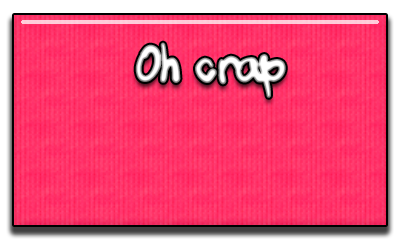
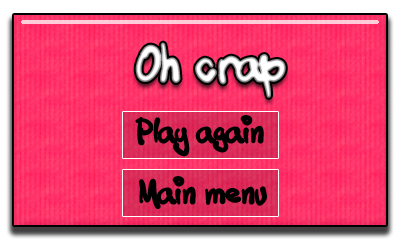
Added two buttons.

Changed region(s): [[0.3, 0.4375, 0.72, 0.6708], [0.3, 0.7, 0.72, 0.9042]]

diff --git a/core/src/fi/tamk/tiko/orion/sleeprunner/stages/PauseStage.java b/core/src/fi/tamk/tiko/orion/sleeprunner/stages/PauseStage.java
@@ -1,8 +1,14 @@
 package fi.tamk.tiko.orion.sleeprunner.stages;
 
+import com.badlogic.gdx.Gdx;
+import com.badlogic.gdx.graphics.Color;
 import com.badlogic.gdx.graphics.OrthographicCamera;
 import com.badlogic.gdx.graphics.g2d.Batch;
+import com.badlogic.gdx.scenes.scene2d.Actor;
+import com.badlogic.gdx.scenes.scene2d.InputEvent;
+import com.badlogic.gdx.scenes.scene2d.InputListener;
 import com.badlogic.gdx.scenes.scene2d.Stage;
+import com.badlogic.gdx.scenes.scene2d.Touchable;
 import com.badlogic.gdx.scenes.scene2d.actions.MoveToAction;
 import com.badlogic.gdx.utils.Scaling;
 import com.badlogic.gdx.utils.viewport.ScalingViewport;
@@ -19,27 +25,92 @@ public class PauseStage extends Stage {
 
     private SleepRunner game;
     private OrthographicCamera camera;
+
     private PauseMenu pauseMenu;
+
     private MoveToAction moveToAction;
+
+    private Actor newGameButton;
+    private Actor mainMenuButton;
+
+    private Batch batch;
+
+    private boolean isNewGameButtonTouched = false;
+    private boolean isMainMenuButtonTouched = false;
 
     public PauseStage(SleepRunner g, OrthographicCamera worldCamera,Batch batch){
         super(new ScalingViewport(Scaling.stretch, Constants.APP_WIDTH, Constants.APP_HEIGHT, worldCamera), batch);
         game = g;
+        this.batch = batch;
+
 
         setupMenu();
+
         camera = worldCamera;
     }
 
     private void setupMenu(){
 
         pauseMenu = new PauseMenu(Constants.APP_WIDTH / 4, Constants.APP_HEIGHT*2);
+        setupAnimation();
+        pauseMenu.addAction(moveToAction);
+        setupButtons();
+        addActor(pauseMenu);
+        addActor(newGameButton);
+        addActor(mainMenuButton);
+
+        mainMenuButton.debug();
+        newGameButton.debug();
+    }
+
+    private void setupButtons(){
+
+        newGameButton = new Actor();
+        newGameButton.setBounds(Constants.APP_WIDTH / 2.5f,
+                Constants.APP_HEIGHT / 2.4f,
+                Constants.APP_WIDTH / 5f,
+                Constants.APP_HEIGHT / 9.6f);
+        newGameButton.setTouchable(Touchable.enabled);
+        newGameButton.addListener(new InputListener() {
+            @Override
+            public boolean touchDown(InputEvent event, float x, float y,
+                                     int pointer, int button) {
+                isNewGameButtonTouched = true;
+                return true;
+            }
+        });
+
+
+        mainMenuButton = new Actor();
+        mainMenuButton.setBounds(Constants.APP_WIDTH / 2.5f,
+                Constants.APP_HEIGHT / 3.42f,
+                Constants.APP_WIDTH / 5f,
+                Constants.APP_HEIGHT / 9.6f);
+        mainMenuButton.setTouchable(Touchable.enabled);
+        mainMenuButton.addListener(new InputListener() {
+            @Override
+            public boolean touchDown(InputEvent event, float x, float y,
+                                     int pointer, int button) {
+                isMainMenuButtonTouched = true;
+                return true;
+            }
+        });
+
+    }
+
+    private void setupAnimation(){
 
         moveToAction = new MoveToAction();
-        moveToAction.setPosition(Constants.APP_WIDTH / 4, Constants.APP_HEIGHT/4);
+        moveToAction.setPosition(Constants.APP_WIDTH / 4, Constants.APP_HEIGHT / 4);
         moveToAction.setDuration(0.35f);
-        pauseMenu.addAction(moveToAction);
+    }
 
-        addActor(pauseMenu);
+    public boolean isNewGameButtonTouched(){
+        return isNewGameButtonTouched;
+    }
+
+    public boolean isMainMenuButtonTouched(){
+        return isMainMenuButtonTouched;
     }
 
     @Override

diff --git a/core/src/fi/tamk/tiko/orion/sleeprunner/graphics/PauseMenu.java b/core/src/fi/tamk/tiko/orion/sleeprunner/graphics/PauseMenu.java
@@ -22,9 +22,6 @@ public class PauseMenu extends Actor {
 
     @Override
     public void draw(Batch batch, float parentAlpha) {
-        //batch.draw(texture,this.getX(),this.getY(),this.getOriginX(),this.getOriginY(),this.getWidth(),
-        //        this.getHeight(),this.getScaleX(), this.getScaleY(),this.getRotation(),0,0,
-        //        texture.getWidth(),texture.getHeight(),false,false);
         batch.draw(texture,getX(),getY());
     }
 

diff --git a/core/src/fi/tamk/tiko/orion/sleeprunner/screens/GameScreen.java b/core/src/fi/tamk/tiko/orion/sleeprunner/screens/GameScreen.java
@@ -274,7 +274,8 @@ public class GameScreen extends InputAdapter implements Screen, ContactListener 
      * Runs when game is over.
      */
     private void updateGameOver( ) {
-        if ( Gdx.input.isTouched() ) {
+        Gdx.input.setInputProcessor(pauseStage);
+        if ( pauseStage.isMainMenuButtonTouched() ) {
             game.setMainMenuScreen();
         }
         pauseStage.act();
